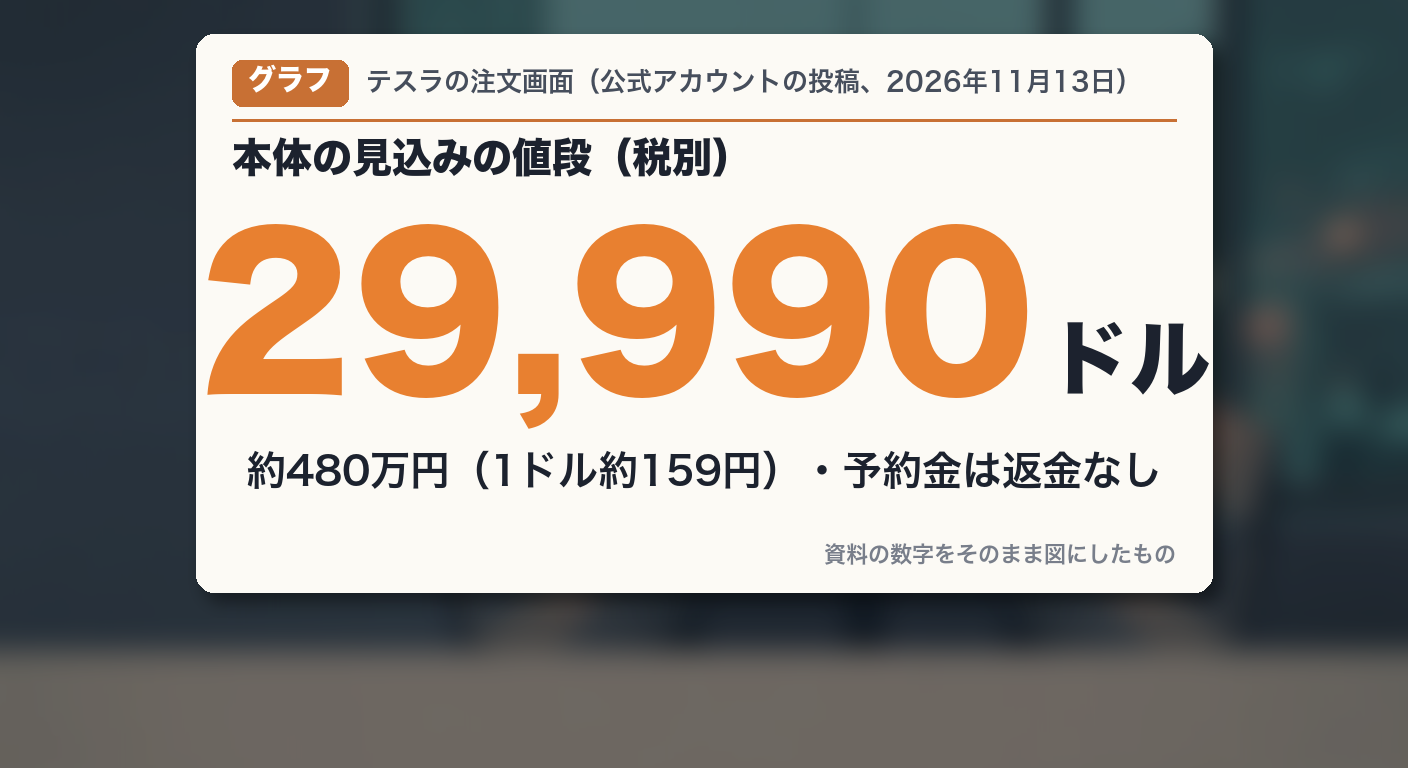
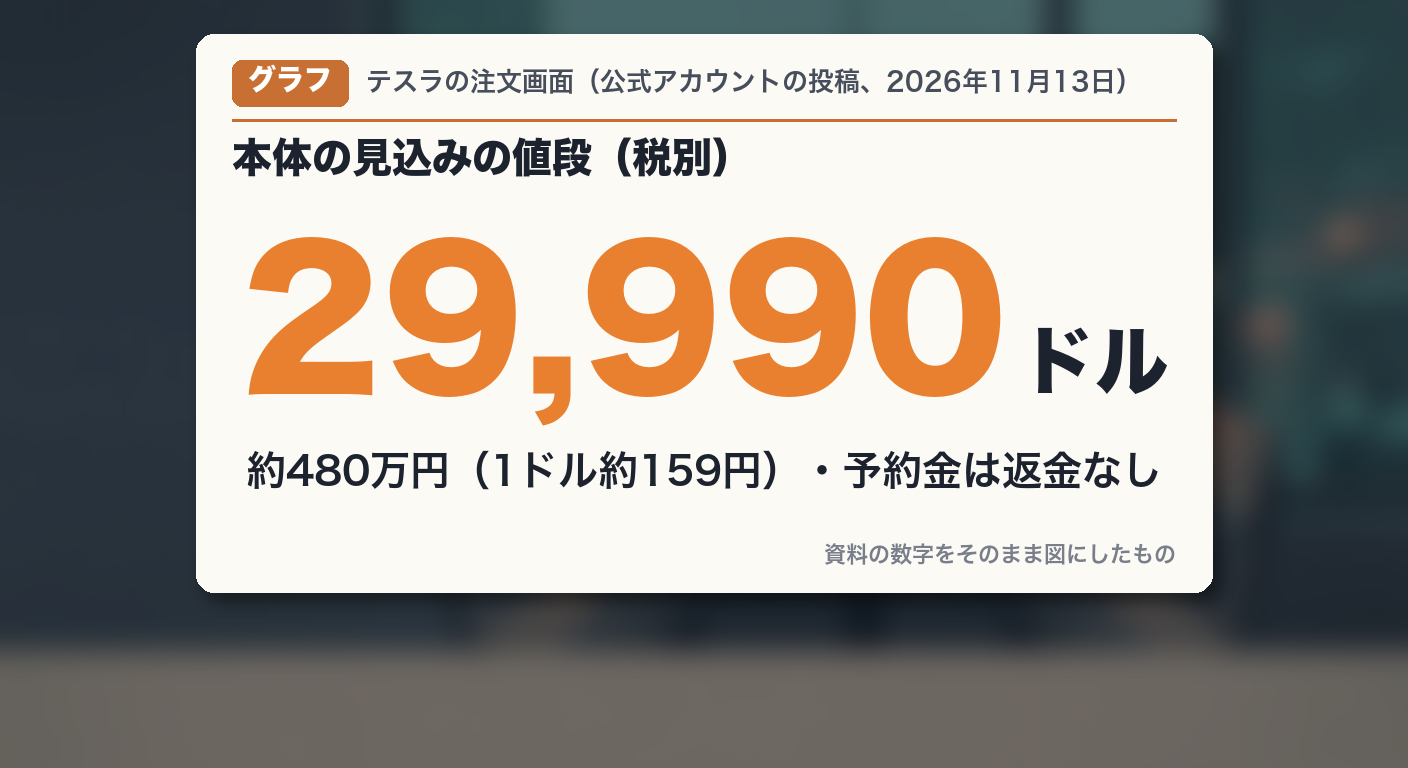
kl058: 画像・カード・kl_motion の数字グラフ幅調整（レオ）

Changed region(s): [[0.125, 0.2812, 0.875, 0.5625], [0.5625, 0.5, 0.5938, 0.5312], [0.5, 0.4688, 0.5312, 0.5]]

diff --git a/kl_motion.py b/kl_motion.py
@@ -501,11 +501,17 @@ def _draw_number(parts, dr, t):
     x0, bt, x1, bb = parts["body"]
     value, unit = chart["value"], chart.get("unit", "")
     dec = _decimals(value)
-    big = D._font(D.FONT_BOLD, 200)
-    fu = D._font(D.FONT_BOLD, 80)
     final = _fmt(value, dec)
-    wn, wu = D._text_w(dr, final, big), D._text_w(dr, unit, fu)
-    total = wn + (16 + wu if unit else 0)
+    # 桁が多い数字（例: 29,990ドル）でも、数字と単位がカードの本文の幅に収まるまで文字を小さくする（kl058）
+    bs = 200
+    while True:
+        big = D._font(D.FONT_BOLD, bs)
+        fu = D._font(D.FONT_BOLD, int(bs * 0.4))
+        wn, wu = D._text_w(dr, final, big), D._text_w(dr, unit, fu)
+        total = wn + (16 + wu if unit else 0)
+        if total <= (x1 - x0) or bs <= 120:
+            break
+        bs -= 8
     cx = (x0 + x1) / 2
     xr = cx - total / 2 + wn
     p = ease_out((t - parts.get("chart_at", CHART_AT)) / 1.5)
